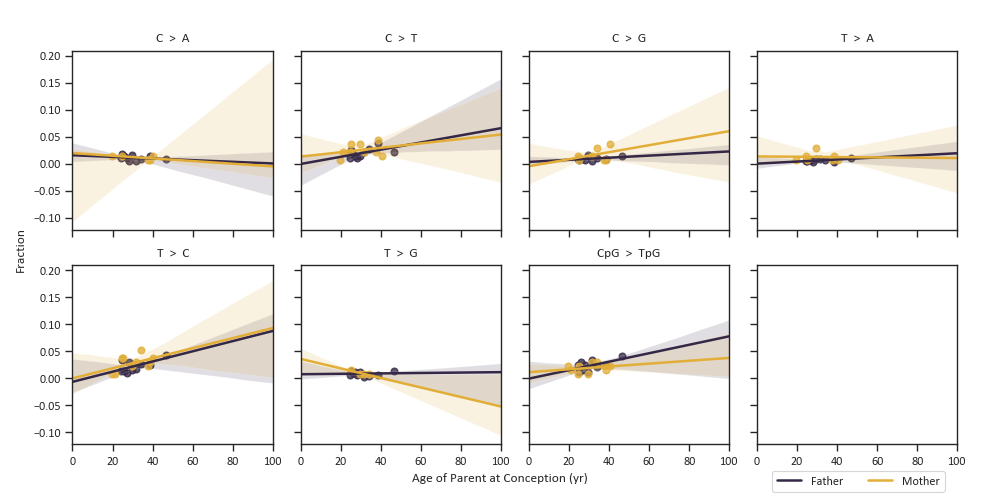
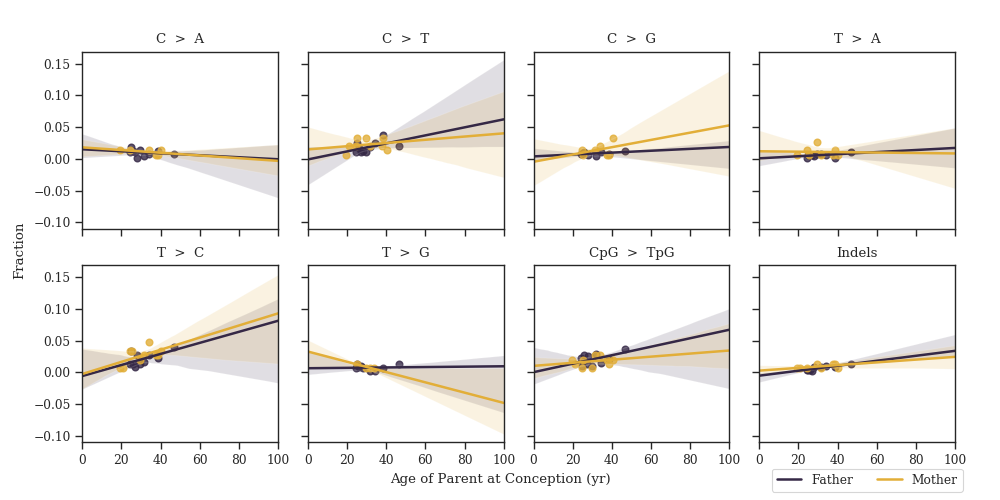
updated graphs

Changed region(s): [[0.031, 0.06, 0.961, 0.54], [0.0, 0.45, 0.961, 0.99], [0.651, 0.21, 0.682, 0.24]]

diff --git a/phasing_analysis/create_graphs.py b/phasing_analysis/create_graphs.py
@@ -6,52 +6,54 @@ import seaborn as sb
 
 
 sb.set_context("paper");
-sb.set_style("ticks", {"font.family" : ['calibri']})
-dnv_data = pd.read_csv('dnv_parent_percentages.txt', sep='\t', engine='python');
-dnv_data.set_index(['Mutational_Class'], inplace=True);
-mutation_list = ['C_A', 'C_T', 'C_G', 'T_A', 'T_C', 'T_G', 'CpG_TpG', 'Indels'];
-length = len(mutation_list);
-
-f, axarr = plt.subplots(2, 4, sharex=True, sharey=True, figsize=(10, 3));
-y_pos = [0.2625, 0.7375];
-plt.yticks([]);
-
-for i in range(length):
-    curr_df = dnv_data.loc[mutation_list[i]];
-    curr_df.reset_index(inplace=True);
-    fraction_list = curr_df['Fraction'].tolist();
-    if i < 4:
-        axarr[0, i].barh(y_pos, fraction_list, color=["#352846", '#E2AE38'], left=[0.005, 0.005], height=0.425, align='center');
-        axarr[0, i].set_title(mutation_list[i][0] + '  >  ' + mutation_list[i][2]);
-    elif i == 4:
-        axarr[1, 0].barh(y_pos, fraction_list, color=["#352846", '#E2AE38'], left=[0.005, 0.005], height=0.425, align='center');
-        axarr[1, 0].set_title(mutation_list[i][0] + '  >  ' + mutation_list[i][2]);
-    elif i == 5:
-        axarr[1, 1].barh(y_pos, fraction_list, color=["#352846", '#E2AE38'], left=[0.005, 0.005], height=0.425, align='center');
-        axarr[1, 1].set_title(mutation_list[i][0] + '  >  ' + mutation_list[i][2]);
-    else:
-        dad = axarr[1, 2].barh(y_pos[0], fraction_list[0], color='#352846', left=0.005, height=0.425, label='Father');
-        mom = axarr[1, 2].barh(y_pos[1], fraction_list[1], color='#E2AE38', left=0.005, height=0.425, label='Mother');
-        axarr[1, 2].set_title('CpG  >  TpG');
-        dad = axarr[1, 3].barh(y_pos[0], fraction_list[0], color='#352846', left=0.005, height=0.425, label='Father');
-        mom = axarr[1, 3].barh(y_pos[1], fraction_list[1], color='#E2AE38', left=0.005, height=0.425, label='Mother');
-        axarr[1, 3].set_title('Indels');
-f.text(0.5, 0.06, 'Fraction', ha='center', va='center');
-f.text(0.02, 0.5, 'Mutational Class', ha='center', va='center', rotation='vertical');
-f.tight_layout(pad=2.5, w_pad=1.0, h_pad=1.0);
-f.legend(handles=[dad, mom],loc=(0.776, 0.02), ncol=2, borderaxespad=0.);
-
-plt.savefig("mom_dad_comparison_bar_chart.png");
+sb.set_style("ticks", {'font.family' : ['serif']});
+# dnv_data = pd.read_csv('dnv_parent_percentages.txt', sep='\t', engine='python');
+# dnv_data.set_index(['Mutational_Class'], inplace=True);
+# mutation_list = ['C_A', 'C_T', 'C_G', 'T_A', 'T_C', 'T_G', 'CpG_TpG', 'Indels'];
+# length = len(mutation_list);
 #
+# f, axarr = plt.subplots(2, 4, sharex=True, sharey=True, figsize=(10, 3));
+# y_pos = [0.2625, 0.7375];
+# plt.yticks([]);
+#
+# for i in range(length):
+#     curr_df = dnv_data.loc[mutation_list[i]];
+#     curr_df.reset_index(inplace=True);
+#     fraction_list = curr_df['Fraction'].tolist();
+#     if i < 4:
+#         axarr[0, i].barh(y_pos, fraction_list, color=["#352846", '#E2AE38'], left=[0.005, 0.005], height=0.425, align='center');
+#         axarr[0, i].set_title(mutation_list[i][0] + '  >  ' + mutation_list[i][2]);
+#     elif i == 4:
+#         axarr[1, 0].barh(y_pos, fraction_list, color=["#352846", '#E2AE38'], left=[0.005, 0.005], height=0.425, align='center');
+#         axarr[1, 0].set_title(mutation_list[i][0] + '  >  ' + mutation_list[i][2]);
+#     elif i == 5:
+#         axarr[1, 1].barh(y_pos, fraction_list, color=["#352846", '#E2AE38'], left=[0.005, 0.005], height=0.425, align='center');
+#         axarr[1, 1].set_title(mutation_list[i][0] + '  >  ' + mutation_list[i][2]);
+#     elif i == 6:
+#         dad = axarr[1, 2].barh(y_pos[0], fraction_list[0], color='#352846', left=0.005, height=0.425, label='Father');
+#         mom = axarr[1, 2].barh(y_pos[1], fraction_list[1], color='#E2AE38', left=0.005, height=0.425, label='Mother');
+#         axarr[1, 2].set_title('CpG  >  TpG');
+#     else:
+#         dad = axarr[1, 3].barh(y_pos[0], fraction_list[0], color='#352846', left=0.005, height=0.425, label='Father');
+#         mom = axarr[1, 3].barh(y_pos[1], fraction_list[1], color='#E2AE38', left=0.005, height=0.425, label='Mother');
+#         axarr[1, 3].set_title('Indels');
+#
+# f.text(0.5, 0.06, 'Fraction', ha='center', va='center');
+# f.text(0.02, 0.5, 'Mutational Class', ha='center', va='center', rotation='vertical');
+# f.tight_layout(pad=2.5, w_pad=1.0, h_pad=1.0);
+# f.legend(handles=[dad, mom],loc=(0.776, 0.02), ncol=2, borderaxespad=0.);
+#
+# plt.savefig("mom_dad_comparison_bar_chart.png");
+# #
 # -------------------- end of mom and dad comparison bar chart
 #
 # patientIDs = ["1-00801", "1-01019", "1-03897", "1-04190", "1-04389", "1-04460", "1-04537", "1-05443", "1-05673", "1-05846"];
-# mutation_list = ['C_A', 'C_T', 'C_G', 'T_A', 'T_C', 'T_G', 'CpG_TpG'];
+# mutation_list = ['C_A', 'C_T', 'C_G', 'T_A', 'T_C', 'T_G', 'CpG_TpG', 'Indels'];
 # length = len(mutation_list);
 #
-# parental_age = pd.read_csv('/Users/Seiden/Documents/Summer2018/longreadclustersequencing/data/parental_age_at_conception.txt', sep='\t', engine='python');
+# parental_age = pd.read_csv('/Users/allisonseiden/Documents/longreadclustersequencing/data/parental_age_at_conception.txt', sep='\t', engine='python');
 # parental_age.set_index(['ID'], inplace=True);
-# parental_fractions = pd.read_csv('/Users/Seiden/Documents/Summer2018/longreadclustersequencing/phasing_analysis/dnv_parent_percentages_by_ID.txt', sep='\t', engine='python');
+# parental_fractions = pd.read_csv('/Users/allisonseiden/Documents/longreadclustersequencing/phasing_analysis/dnv_parent_percentages_by_ID.txt', sep='\t', engine='python');
 # parental_fractions.set_index(['ID'], inplace=True);
 # dnv_data = parental_age.join(parental_fractions, how='left');
 #
@@ -79,20 +81,24 @@ plt.savefig("mom_dad_comparison_bar_chart.png");
 #         dad = sb.regplot(x=age_list_dad, y=fraction_list_dad, scatter=True, color="#352846", ax=axarr[1, 1], label='Father');
 #         mom = sb.regplot(x=age_list_mom, y=fraction_list_mom, scatter=True, color="#E2AE38", ax=axarr[1, 1], label='Mother');
 #         axarr[1, 1].set_title(mutation_list[i][0] + '  >  ' + mutation_list[i][2]);
-#     else:
+#     elif i == 6:
 #         dad = sb.regplot(x=age_list_dad, y=fraction_list_dad, scatter=True, color="#352846", ax=axarr[1, 2], label='Father');
 #         mom = sb.regplot(x=age_list_mom, y=fraction_list_mom, scatter=True, color="#E2AE38", ax=axarr[1, 2], label='Mother');
 #         axarr[1, 2].set_title('CpG  >  TpG');
+#     else:
+#         dad = sb.regplot(x=age_list_dad, y=fraction_list_dad, scatter=True, color="#352846", ax=axarr[1, 3], label='Father');
+#         mom = sb.regplot(x=age_list_mom, y=fraction_list_mom, scatter=True, color="#E2AE38", ax=axarr[1, 3], label='Mother');
+#         axarr[1, 3].set_title('Indels');
 #
 #
 # f.text(0.02, 0.5, 'Fraction', ha='center', va='center', rotation='vertical');
 # f.text(0.5, 0.035, 'Age of Parent at Conception (yr)', ha='center');
 # f.tight_layout(pad=2.5, w_pad=1.0, h_pad=1.0);
 # f.legend(labels=['Father', 'Mother'], ncol=2, loc=(0.772, 0.017));
-# plt.savefig('/Users/Seiden/Documents/Summer2018/longreadclustersequencing/graphs/mom_dad_age_scatter.png');
-#
-# --------------------------- end of parental age scatter plot
+# plt.savefig('/Users/allisonseiden/Documents/longreadclustersequencing/graphs/mom_dad_age_scatter.png');
 
+# --------------------------- end of parental age scatter plot
+# 
 # pacbio_data = pd.read_table('all_pacbio_data.txt', sep='\t', engine='python');
 # # f, axarr = plt.subplots(2, 5, sharex=True, sharey=True);
 # # chr_list = ['chr1', 'chr2', 'chr3', 'chr4', 'chr5', 'chr7', 'chr8', 'chr9', 'chr10', 'chr12'];
@@ -127,4 +133,4 @@ plt.savefig("mom_dad_comparison_bar_chart.png");
 #         axarr_2[2, i-13].set_title(chrom_name);
 # f_2.tight_layout();
 #
-# plt.savefig('/Users/Seiden/Documents/Summer2018/longreadclustersequencing/graphs/chromosomal_regions_dad.png');
+# plt.savefig('/Users/allisonseiden/Documents/longreadclustersequencing/graphs/chromosomal_regions_dad.png');
